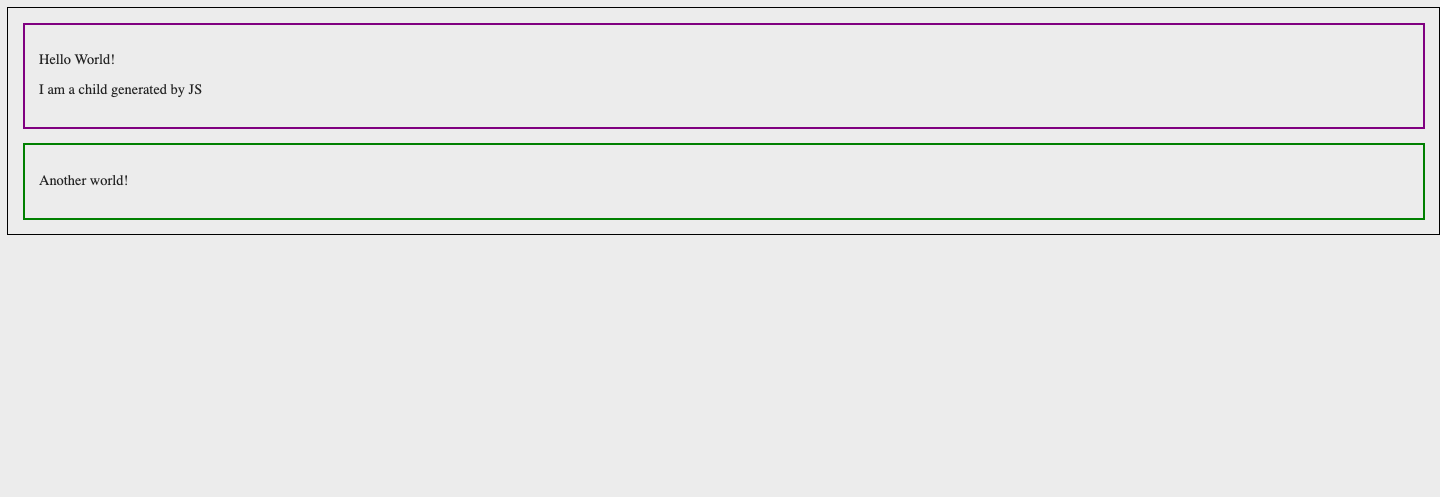
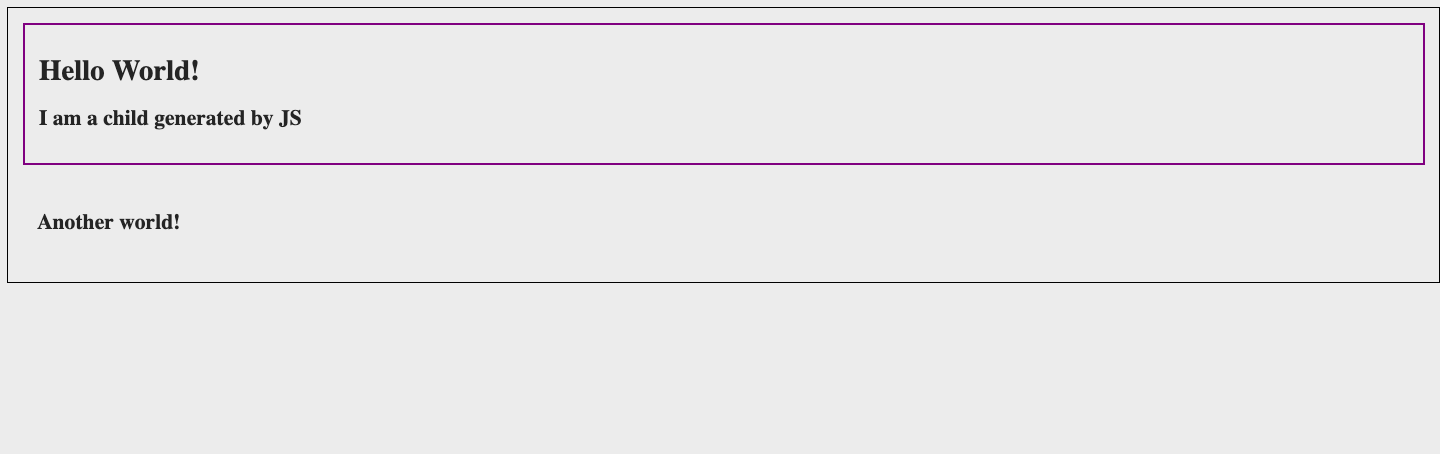
Adjusts text size and re-uploads the image

diff --git a/index.html b/index.html
@@ -23,10 +23,10 @@
 <body>
   <div class="parent">
     <div>
-      <p>Hello World!</p>
+      <h1>Hello World!</h1>
     </div>
     <div class="secondChild">
-      <p>Another world!</p>
+      <h2>Another world!</h2>
     </div>
   </div>
 
@@ -35,7 +35,7 @@
     const child = father.children[0]
     child.style.border = "solid purple 3px"
     child.style.padding = "1rem"
-    child.innerHTML += "<p> I am a child generated by JS</p>"
+    child.innerHTML += "<h2> I am a child generated by JS</h2>"
     child.style.marginBottom = "1rem"
 
     const secondChild = document.querySelectorAll('p')[2]

diff --git a/README.md b/README.md
@@ -93,10 +93,10 @@ Podemos brincar com pais e filhos também:
 <body>
   <div class="parent">
     <div>
-      <p>Hello World!</p>
+      <h1>Hello World!</h1>
     </div>
     <div class="secondChild">
-      <p>Another world!</p>
+      <h2>Another world!</h2>
     </div>
   </div>
 
@@ -105,7 +105,7 @@ Podemos brincar com pais e filhos também:
     const child = father.children[0]
     child.style.border = "solid purple 3px"
     child.style.padding = "1rem"
-    child.innerHTML += "<p> I am a child generated by JS</p>"
+    child.innerHTML += "<h2> I am a child generated by JS</h2>"
     child.style.marginBottom = "1rem"
 
     const secondChild = document.querySelectorAll('p')[2]
@@ -113,6 +113,7 @@ Podemos brincar com pais e filhos também:
     secondChildParentNode.style.border = "3px solid green"
   </script>
 </body>
+
 
 ```
 
